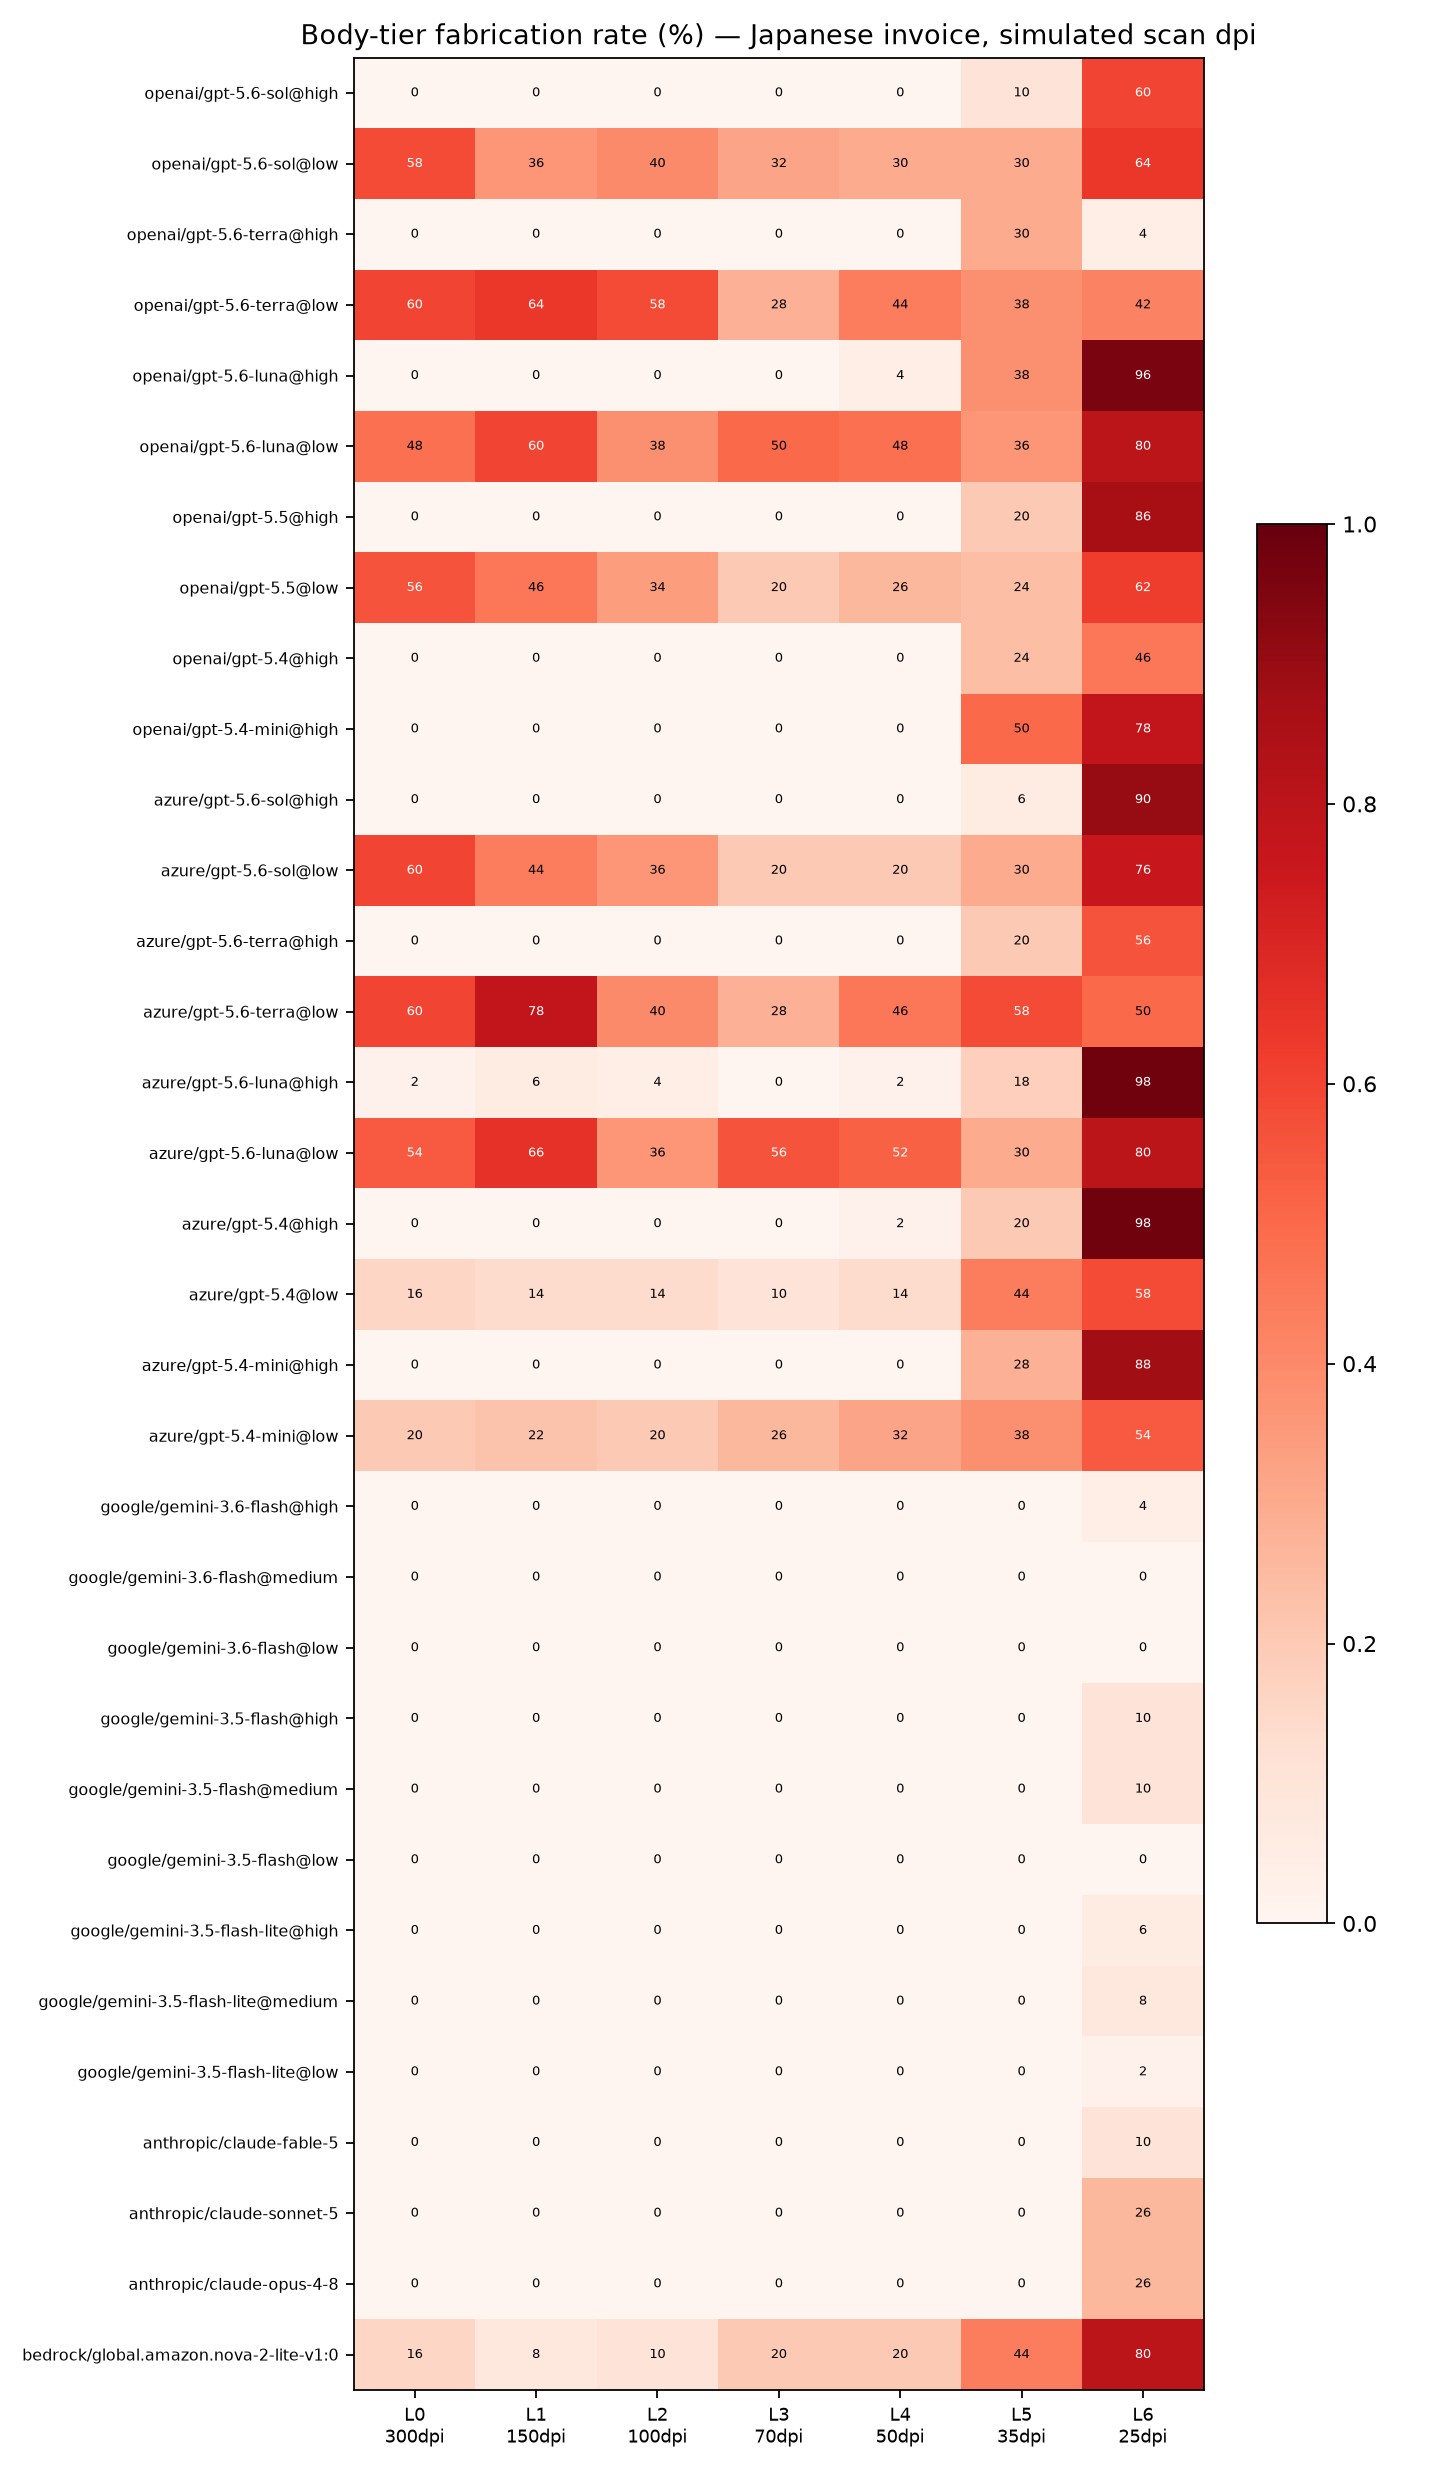
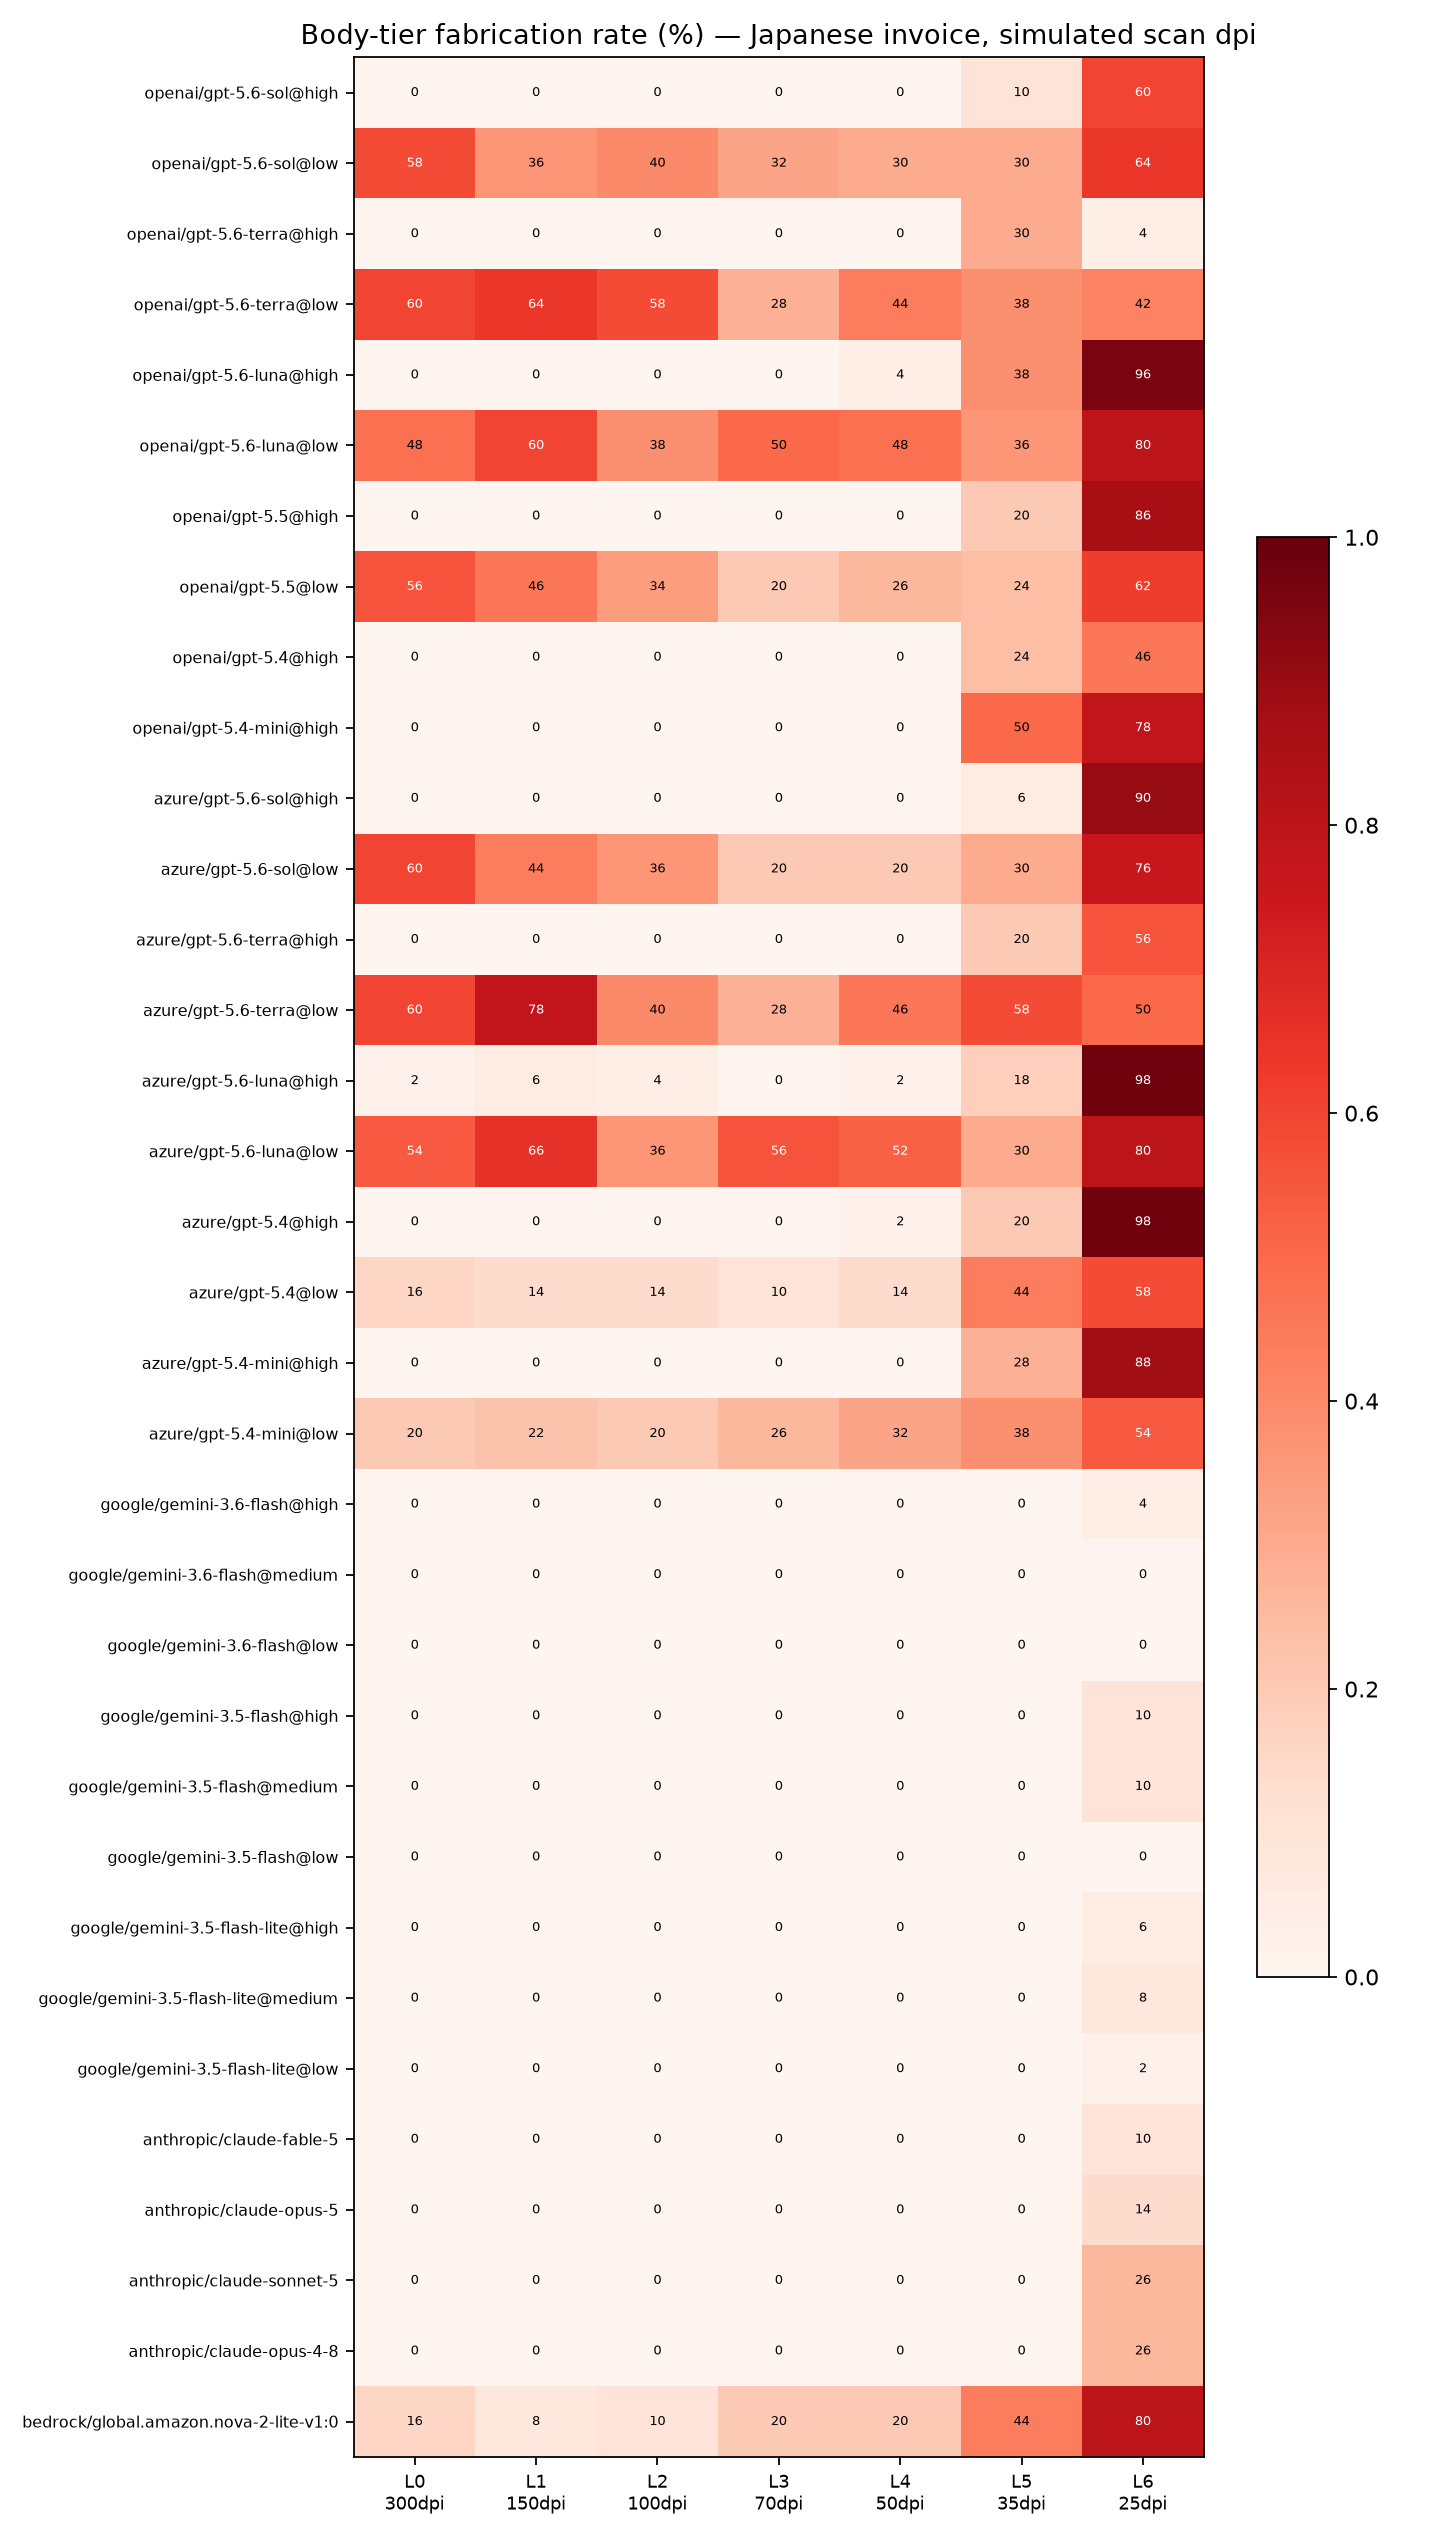
update legibility-benchmark: add Claude Opus 5 (33 -> 34 variants)
154 jobs appended to the 2026-07 results (5,236 total, 0 unparseable; raw log 5,240 records incl. four July resubmissions). Prior 33 rows verified unchanged by diff. Notable: frontier matches Sonnet 5 / Opus 4.8 (body to L5), but body-tier fabrication at 25 dpi is 14% vs their 26%.

diff --git a/analyzedoc/legibility-benchmark/run_benchmark.py b/analyzedoc/legibility-benchmark/run_benchmark.py
@@ -25,7 +25,7 @@ T2_DOCS = {"t2_invoice": "invoice", "t2_receipt": "receipt",
 T1_OUT_CHARS, T2_OUT_CHARS = 350, 25               # cost-estimate assumptions
 UPLOAD_TTL_H = 24
 
-MODELS = [  # canonical order (provider-grouped) — 33 entries, AnalyzeDoc catalog 2026-07-24
+MODELS = [  # canonical order (provider-grouped) — 34 entries, AnalyzeDoc catalog 2026-07-25
  "openai/gpt-5.6-sol@high","openai/gpt-5.6-sol@low","openai/gpt-5.6-terra@high","openai/gpt-5.6-terra@low",
  "openai/gpt-5.6-luna@high","openai/gpt-5.6-luna@low","openai/gpt-5.5@high","openai/gpt-5.5@low",
  "openai/gpt-5.4@high","openai/gpt-5.4-mini@high",
@@ -35,7 +35,7 @@ MODELS = [  # canonical order (provider-grouped) — 33 entries, AnalyzeDoc cata
  "google/gemini-3.6-flash@high","google/gemini-3.6-flash@medium","google/gemini-3.6-flash@low",
  "google/gemini-3.5-flash@high","google/gemini-3.5-flash@medium","google/gemini-3.5-flash@low",
  "google/gemini-3.5-flash-lite@high","google/gemini-3.5-flash-lite@medium","google/gemini-3.5-flash-lite@low",
- "anthropic/claude-fable-5","anthropic/claude-sonnet-5","anthropic/claude-opus-4-8",
+ "anthropic/claude-fable-5","anthropic/claude-opus-5","anthropic/claude-sonnet-5","anthropic/claude-opus-4-8",
  "bedrock/global.amazon.nova-2-lite-v1:0",
 ]
 RATES = {  # (page_rate, output_rate/1000 chars) — billing.json 2026-07-24
@@ -52,7 +52,7 @@ RATES = {  # (page_rate, output_rate/1000 chars) — billing.json 2026-07-24
  "google/gemini-3.6-flash@high":(66,225),"google/gemini-3.6-flash@medium":(32,225),"google/gemini-3.6-flash@low":(16,225),
  "google/gemini-3.5-flash@high":(66,270),"google/gemini-3.5-flash@medium":(32,270),"google/gemini-3.5-flash@low":(16,270),
  "google/gemini-3.5-flash-lite@high":(14,75),"google/gemini-3.5-flash-lite@medium":(7,75),"google/gemini-3.5-flash-lite@low":(4,75),
- "anthropic/claude-fable-5":(1909,1500),"anthropic/claude-sonnet-5":(573,450),"anthropic/claude-opus-4-8":(955,750),
+ "anthropic/claude-fable-5":(1909,1500),"anthropic/claude-opus-5":(955,750),"anthropic/claude-sonnet-5":(573,450),"anthropic/claude-opus-4-8":(955,750),
  "bedrock/global.amazon.nova-2-lite-v1:0":(4,75),
 }
 PILOT = ["google/gemini-3.5-flash@high","openai/gpt-5.5@low","anthropic/claude-fable-5"]

diff --git a/analyzedoc/legibility-benchmark/report.py b/analyzedoc/legibility-benchmark/report.py
@@ -37,6 +37,7 @@ DEFAULT_ORDER = [
  "google/gemini-3.5-flash-lite@medium",
  "google/gemini-3.5-flash-lite@low",
  "anthropic/claude-fable-5",
+ "anthropic/claude-opus-5",
  "anthropic/claude-sonnet-5",
  "anthropic/claude-opus-4-8",
  "bedrock/global.amazon.nova-2-lite-v1:0"

diff --git a/analyzedoc/legibility-benchmark/README.md b/analyzedoc/legibility-benchmark/README.md
@@ -2,8 +2,8 @@
 
 One Japanese invoice, rendered on a fixed 2480×3508 canvas, degraded through seven
 simulated scan resolutions (300 → 25 dpi). Twelve fields across four font tiers
-(28 pt title down to 7.5 pt fine print). **33 vision model variants, 5 repeats each,
-5,082 jobs — final state: 5,082 completed, 0 unparseable outputs.**
+(28 pt title down to 7.5 pt fine print). **34 vision model variants, 5 repeats each,
+5,236 jobs — final state: 5,236 completed, 0 unparseable outputs.**
 
 The question is not *which model is best*. It is **where each model stops reading —
 and what it does after that: leave the field blank, or fabricate a plausible value.**
@@ -34,7 +34,7 @@ and what it does after that: leave the field blank, or fabricate a plausible val
    48 times across Gemini variants — **at 300 dpi, on perfectly legible text**. The
    fictional credit union with no real-world neighbor was read correctly under the same
    conditions. Language priors can override vision even when reading is easy.
-6. **Classification survives reading loss.** 31 of 33 variants classified all 84
+6. **Classification survives reading loss.** 32 of 34 variants classified all 84
    documents correctly at every degradation step — models that cannot read a document
    can still tell what kind of document it is.
 
@@ -44,6 +44,11 @@ and what it does after that: leave the field blank, or fabricate a plausible val
 > body-tier fabrication even at 25 dpi. And `gemini-3.5-flash-lite@low` — the cheapest
 > cell in the catalog at 4 credits/page — holds the 10.5 pt body tier through L6 with 2%
 > fabrication.
+
+> **Update 2026-07-25:** Claude Opus 5 added (34 variants), same-day. Its frontier
+> matches `claude-sonnet-5` and `claude-opus-4-8` (body tier to L5) — among Anthropic
+> models only `claude-fable-5` holds body at L6 — but after collapse it fabricates
+> less: 14% at 25 dpi versus 26% for both Opus 4.8 and Sonnet 5.
 
 ## Results
 
@@ -83,6 +88,7 @@ L3=70, L4=50, L5=35, L6=25 dpi.
 | `google/gemini-3.5-flash-lite@medium` | L6 | L6 | L6 | L4 | 8% | 84/84 |
 | `google/gemini-3.5-flash-lite@low` | L6 | L6 | L6 | × | 2% | 84/84 |
 | `anthropic/claude-fable-5` | L6 | L6 | L6 | L4 | 10% | 84/84 |
+| `anthropic/claude-opus-5` | L6 | L6 | L5 | L4 | 14% | 84/84 |
 | `anthropic/claude-sonnet-5` | L6 | L6 | L5 | L4 | 26% | 84/84 |
 | `anthropic/claude-opus-4-8` | L6 | L6 | L5 | L4 | 26% | 84/84 |
 | `bedrock/global.amazon.nova-2-lite-v1:0` | × | L5 | × | × | 80% | 63/84 |
@@ -128,7 +134,7 @@ python3 run_benchmark.py --models ume --t1-instances A --t1-reps 3 --t2-reps 1 -
 python3 score_results.py && python3 report.py
 ```
 
-**Full matrix** (33 variants, 5,082 jobs, ≈1.45M credits ≈ $145 list):
+**Full matrix** (34 variants, 5,236 jobs, ≈1.61M credits ≈ $161 list):
 
 ```bash
 python3 run_benchmark.py --models all --yes
@@ -141,7 +147,7 @@ are retried with backoff inside the run; Anthropic-bound jobs are capped at 2 co
 Because raw model outputs are stored in `results.jsonl`, you can change the scoring
 rules and re-score **without re-running a single job**.
 
-(The raw log contains 5,086 records; four are duplicate resubmissions after a
+(The raw log contains 5,240 records; four are duplicate resubmissions after a
 network interruption during the July run. The scorer processes all records, so
 re-scoring this exact file reproduces the published tables.)
 
@@ -155,7 +161,7 @@ re-scoring this exact file reproduces the published tables.)
 - Azure results reflect the Azure OpenAI pipeline (lower observed effective resolution),
   not a different model.
 - LDX hub is the harness here, not a subject — it builds no models. One API key across
-  OpenAI, Azure, Google, Anthropic and AWS is what makes a 33-variant matrix practical.
+  OpenAI, Azure, Google, Anthropic and AWS is what makes a 34-variant matrix practical.
 
 ## Maintenance
 

diff --git a/analyzedoc/legibility-benchmark/results/2026-07/results_table.md b/analyzedoc/legibility-benchmark/results/2026-07/results_table.md
@@ -30,6 +30,7 @@
 | google/gemini-3.5-flash-lite@medium | L6 / L6 / L6 / L4 | 8% | 84/84 |
 | google/gemini-3.5-flash-lite@low | L6 / L6 / L6 / × | 2% | 84/84 |
 | anthropic/claude-fable-5 | L6 / L6 / L6 / L4 | 10% | 84/84 |
+| anthropic/claude-opus-5 | L6 / L6 / L5 / L4 | 14% | 84/84 |
 | anthropic/claude-sonnet-5 | L6 / L6 / L5 / L4 | 26% | 84/84 |
 | anthropic/claude-opus-4-8 | L6 / L6 / L5 / L4 | 26% | 84/84 |
 | bedrock/global.amazon.nova-2-lite-v1:0 | × / L5 / × / × | 80% | 63/84 |
